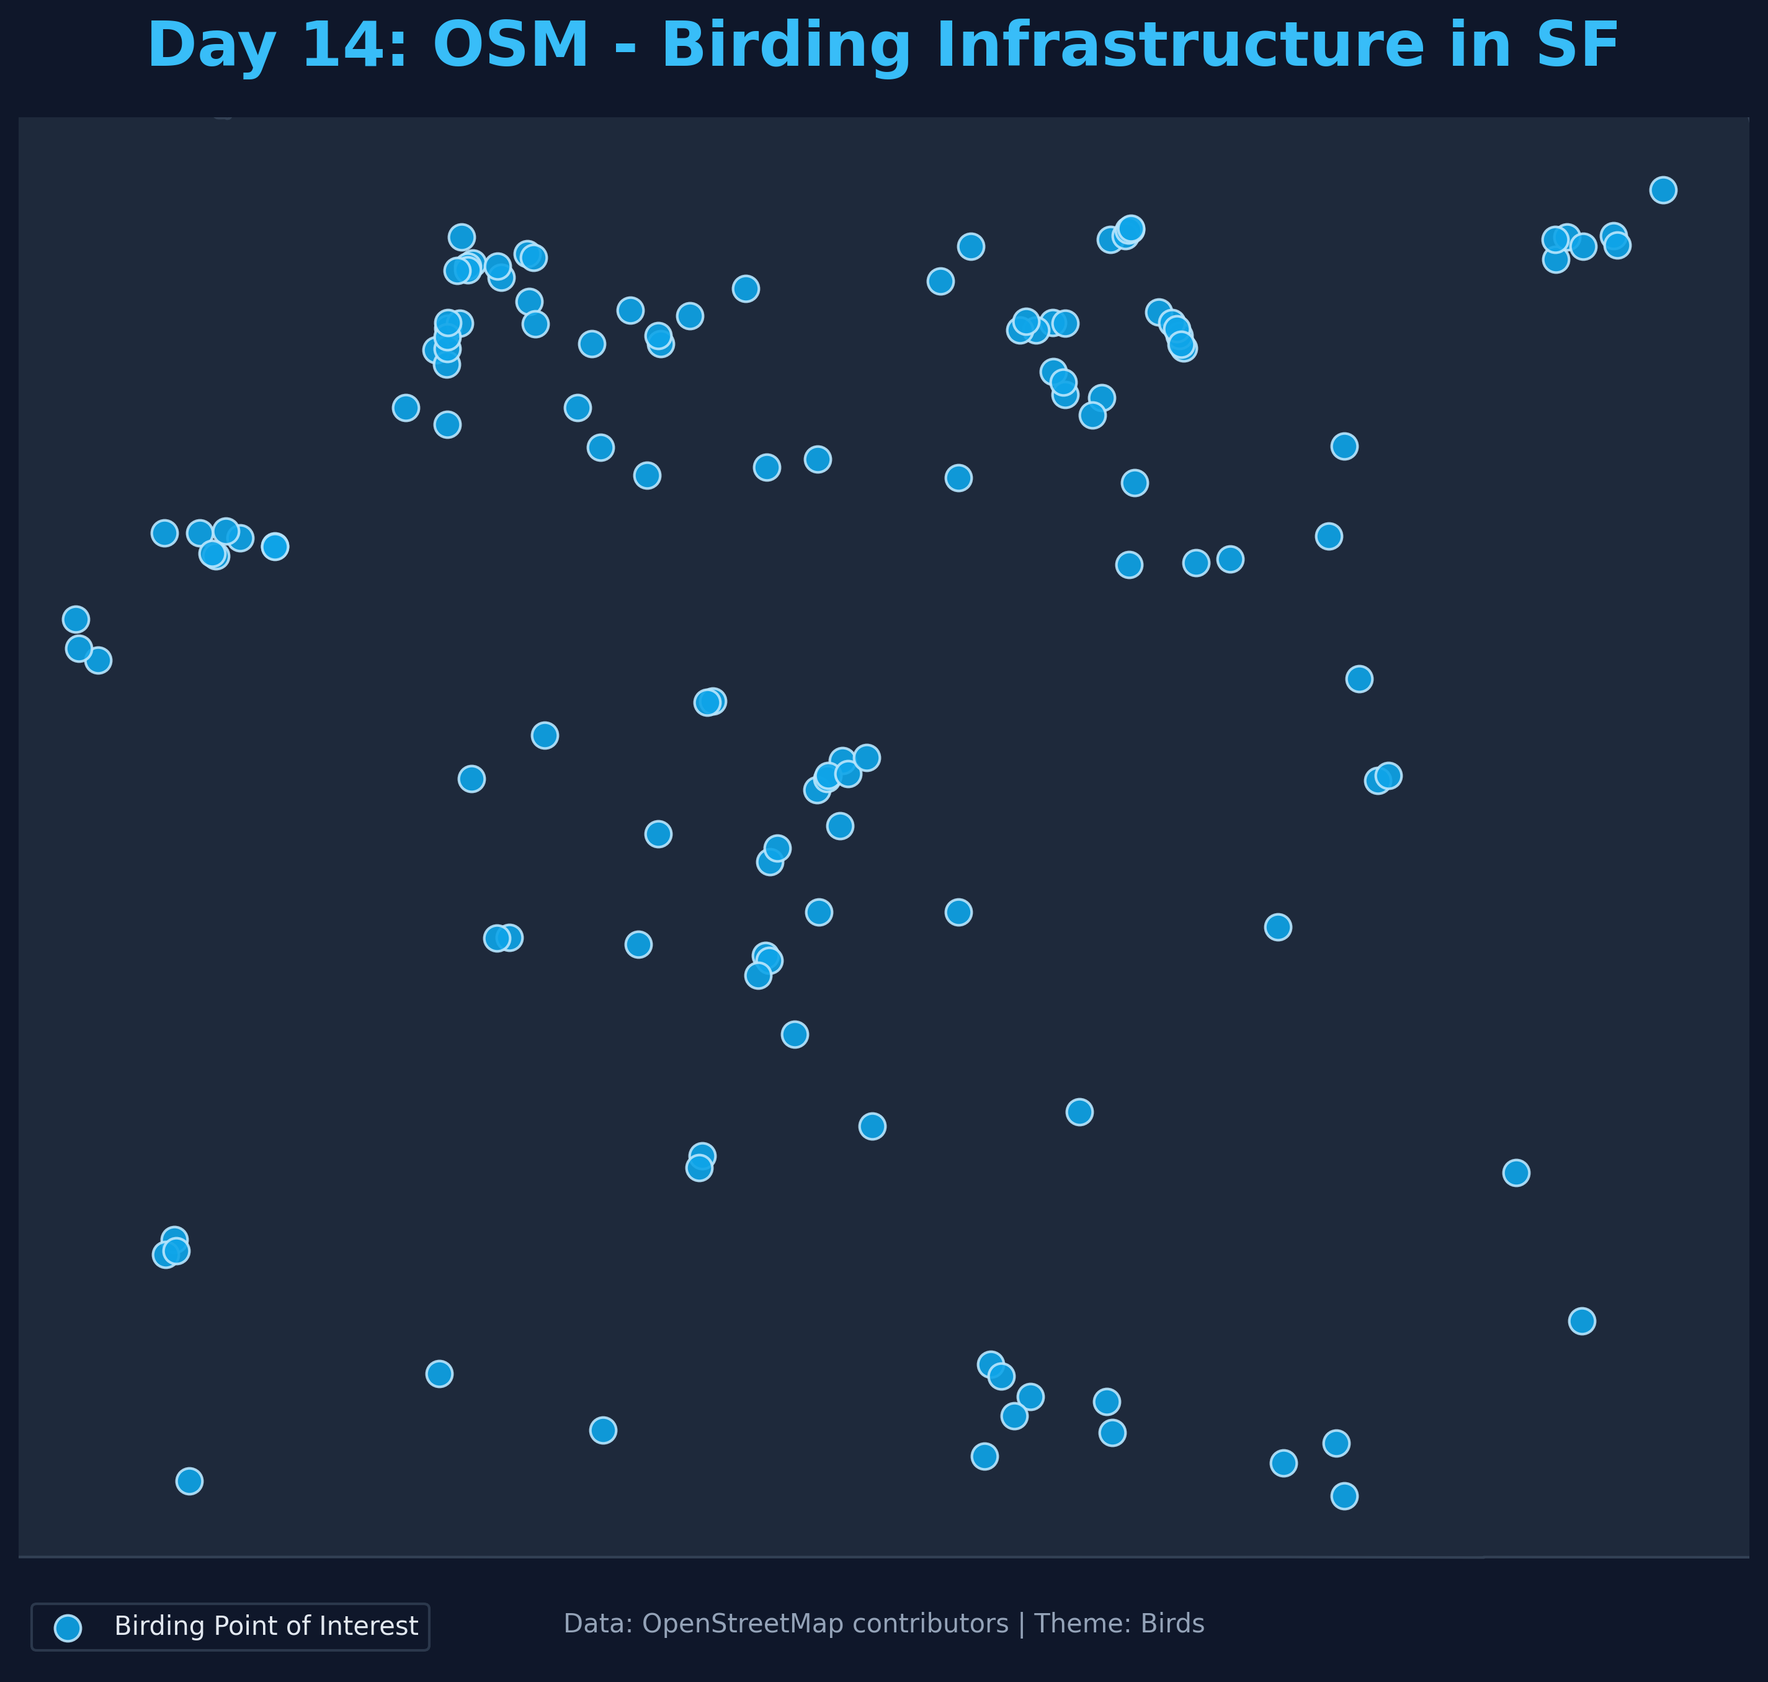
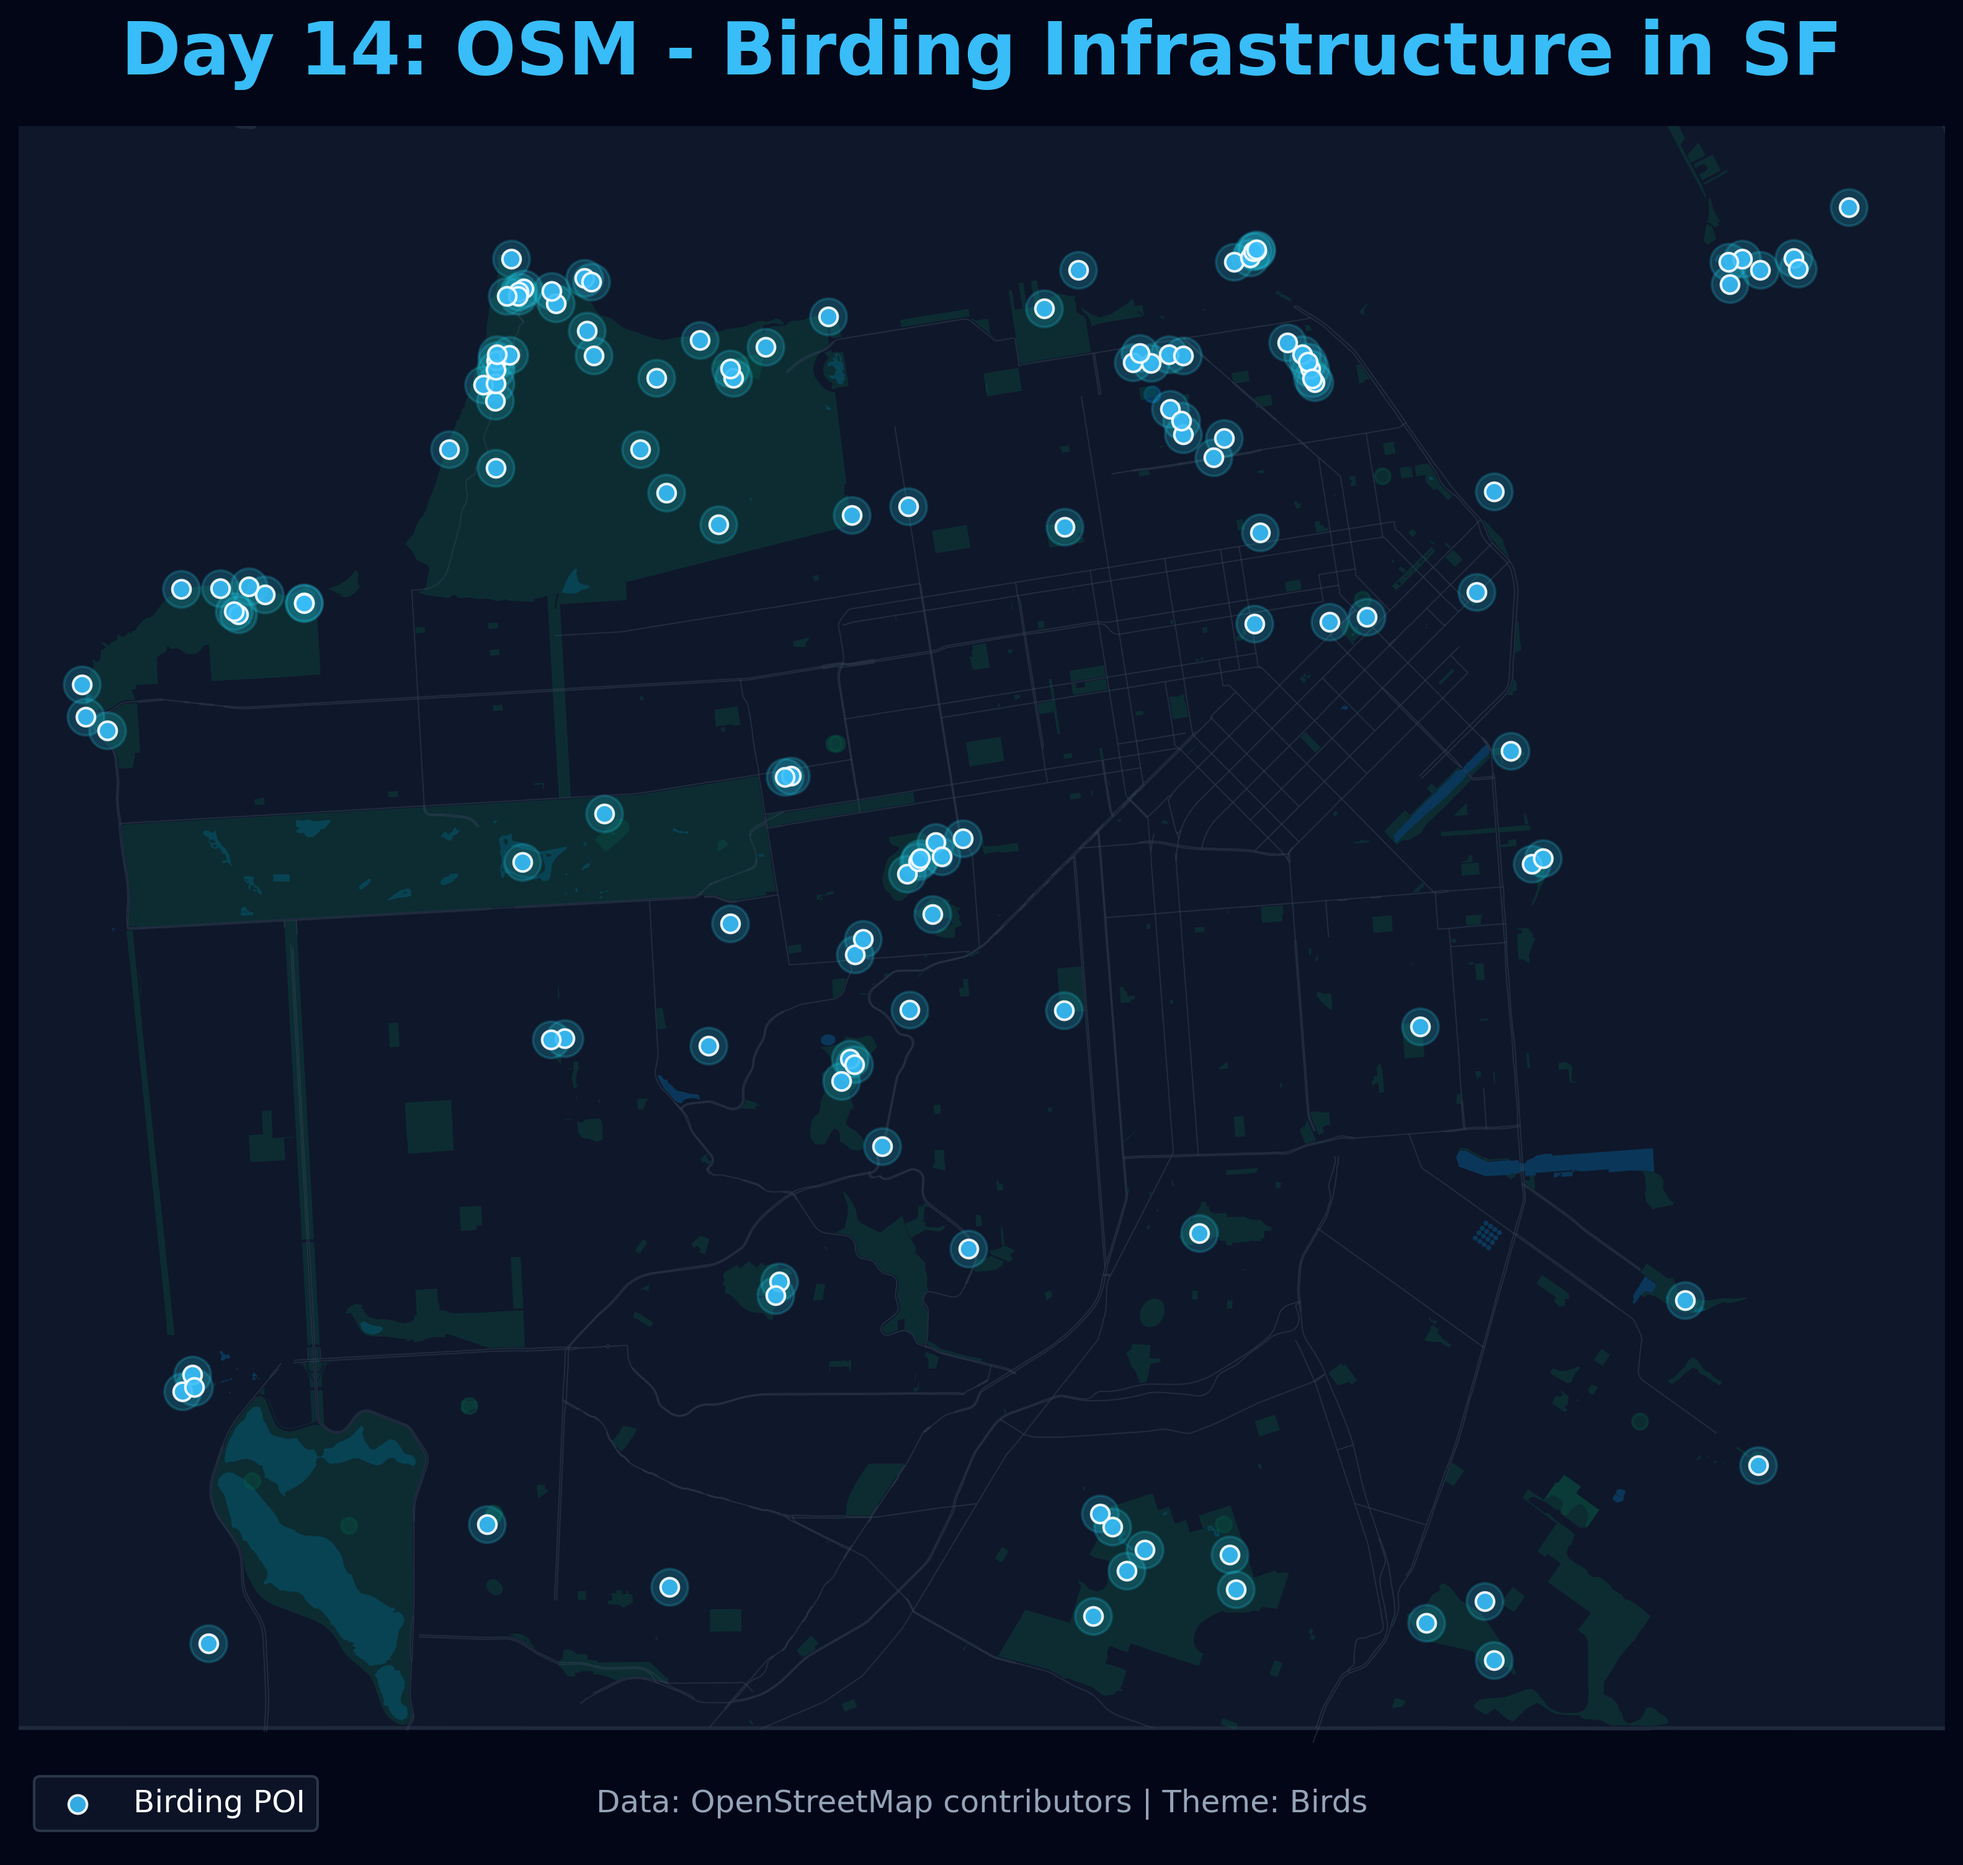
Elevate Day 13 and 14 aesthetics with rich vector basemaps

diff --git a/2025/day_14/code/plot_bird_osm.py b/2025/day_14/code/plot_bird_osm.py
@@ -17,49 +17,56 @@ def main():
     gdf = ox.features_from_place(location, tags=tags)
     print(f"Found {len(gdf)} bird-related features.")
     
-    # Filter for interesting ones or just plot all
+    # Get centroids
     gdf['centroid'] = gdf.geometry.centroid
     
-    print("Plotting birding sites...")
-    fig, ax = plt.subplots(figsize=(12, 12))
-    fig.patch.set_facecolor('#0f172a') # Deep navy
-    ax.set_facecolor('#0f172a')
+    print("Fetching rich base layers...")
+    water = ox.features_from_place(location, tags={'natural': 'water', 'bay': True})
+    parks = ox.features_from_place(location, tags={'leisure': 'park'})
+    roads = ox.features_from_place(location, tags={'highway': ['primary', 'secondary']})
+    city = ox.geocode_to_gdf(location)
+    
+    print("Plotting high-fidelity birding sites...")
+    fig, ax = plt.subplots(figsize=(15, 12))
+    fig.patch.set_facecolor('#020617') # Very dark blue/black
+    ax.set_facecolor('#020617')
     
     # Plot SF boundary
-    city = ox.geocode_to_gdf(location)
-    city.plot(ax=ax, color='#1e293b', edgecolor='#334155', linewidth=1)
+    city.plot(ax=ax, color='#0f172a', edgecolor='#1e293b', linewidth=1.5, zorder=1)
     
-    # Plot bird hides and nests with a vibrant color
-    ax.scatter(gdf['centroid'].x, gdf['centroid'].y, color='#0ea5e9', s=100, alpha=0.9, edgecolor='#bae6fd', linewidth=1, label='Birding Point of Interest')
+    # Plot Water
+    water.plot(ax=ax, color='#0369a1', alpha=0.4, zorder=2)
+    
+    # Plot Parks
+    parks.plot(ax=ax, color='#065f46', alpha=0.3, zorder=3)
+    
+    # Plot Roads
+    roads.plot(ax=ax, color='#334155', linewidth=0.5, alpha=0.5, zorder=4)
+    
+    # Plot bird hides and nests with a vibrant cyan color
+    # Outer glow
+    ax.scatter(gdf['centroid'].x, gdf['centroid'].y, color='#22d3ee', s=200, alpha=0.2, zorder=10)
+    # Inner point
+    ax.scatter(gdf['centroid'].x, gdf['centroid'].y, color='#38bdf8', s=50, alpha=0.9, edgecolor='white', linewidth=1, label='Birding POI', zorder=11)
     
     # Focus tightly on the SF Peninsula, ignoring the Farallon Islands
     ax.set_xlim(-122.52, -122.35)
     ax.set_ylim(37.70, 37.82)
     
     ax.set_axis_off()
-    ax.set_title("Day 14: OSM - Birding Infrastructure in SF", fontsize=24, pad=20, fontweight='bold', color='#38bdf8')
+    ax.set_title("Day 14: OSM - Birding Infrastructure in SF", fontsize=28, pad=20, fontweight='black', color='#38bdf8')
     
     ax.text(0.5, 0.02, "Data: OpenStreetMap contributors | Theme: Birds", 
-            transform=ax.transAxes, ha='center', color='#94a3b8', fontsize=10)
+            transform=ax.transAxes, ha='center', color='#94a3b8', fontsize=12)
     
     # Customize legend for dark background
-    legend = ax.legend(loc='lower left', facecolor='#0f172a', edgecolor='#334155')
+    legend = ax.legend(loc='lower left', facecolor='#0f172a', edgecolor='#334155', fontsize=12)
     for text in legend.get_texts():
-        text.set_color('#e2e8f0')
+        text.set_color('#f8fafc')
     
     output_path = os.path.join('2025', 'day_14', 'visualization', 'sf_birding_osm.png')
-    plt.savefig(output_path, dpi=300, bbox_inches='tight', facecolor='#0f172a')
+    plt.savefig(output_path, dpi=300, bbox_inches='tight', facecolor='#020617')
     print(f"Saved to {output_path}")
-    
-    # Save a small README
-    readme_content = f"""# Day 14: Data challenge: OpenStreetMap
-A map of birding-related infrastructure and points of interest in San Francisco, extracted from OpenStreetMap. This includes features tagged as bird hides, observation towers, viewpoints, and known nest sites.
-
-## Visualization
-![SF Birding OSM](visualization/sf_birding_osm.png)
-"""
-    with open(os.path.join('2025', 'day_14', 'README.md'), 'w') as f:
-        f.write(readme_content)
 
 if __name__ == "__main__":
     main()

diff --git a/2025/day_13/code/plot_quick_birds.py b/2025/day_13/code/plot_quick_birds.py
@@ -22,48 +22,63 @@ def main():
     
     gdf = gpd.GeoDataFrame(pd.DataFrame(data), geometry=gpd.points_from_xy([d['lon'] for d in data], [d['lat'] for d in data]), crs="EPSG:4326")
     
-    print("Plotting...")
-    fig, ax = plt.subplots(figsize=(12, 12))
-    fig.patch.set_facecolor('#1e293b') # Dark slate blue
-    ax.set_facecolor('#1e293b')
+    location = "San Francisco, California, USA"
+    print("Fetching base layers for context...")
+    # Fetch water and parks for a beautiful basemap
+    water = ox.features_from_place(location, tags={'natural': 'water', 'bay': True})
+    parks = ox.features_from_place(location, tags={'leisure': 'park'})
+    city = ox.geocode_to_gdf(location)
     
-    city = ox.geocode_to_gdf("San Francisco, California, USA")
-    city.plot(ax=ax, color='#334155', edgecolor='#475569', linewidth=1)
+    print("Plotting elevated 10-minute map...")
+    fig, ax = plt.subplots(figsize=(15, 12))
+    fig.patch.set_facecolor('#0f172a') # Deep space navy
+    ax.set_facecolor('#0f172a')
     
-    # Plot top 5 species by count in sample
+    # Plot City Base
+    city.plot(ax=ax, color='#1e293b', edgecolor='#334155', linewidth=1, zorder=1)
+    
+    # Plot Water
+    water.plot(ax=ax, color='#0284c7', alpha=0.3, zorder=2)
+    
+    # Plot Parks
+    parks.plot(ax=ax, color='#15803d', alpha=0.3, zorder=3)
+    
+    # Plot top 5 species by count in sample with glowing effect
     top_5 = gdf['species'].value_counts().head(5).index.tolist()
-    gdf[gdf['species'].isin(top_5)].plot(
+    top_gdf = gdf[gdf['species'].isin(top_5)]
+    
+    # Glow effect
+    top_gdf.plot(ax=ax, column='species', cmap='Set2', markersize=150, alpha=0.2, zorder=4)
+    # Core point
+    top_gdf.plot(
         ax=ax, 
         column='species', 
         cmap='Set2', 
-        markersize=60, 
-        alpha=0.8, 
+        markersize=40, 
+        alpha=0.9, 
         edgecolor='white',
-        linewidth=0.5,
+        linewidth=0.8,
         legend=True,
-        legend_kwds={'loc': 'upper left', 'facecolor': '#1e293b', 'edgecolor': 'none', 'labelcolor': 'white'}
+        legend_kwds={'loc': 'lower left', 'facecolor': '#0f172a', 'edgecolor': '#334155', 'labelcolor': 'white', 'title': 'Top 5 Species', 'title_fontsize': 12},
+        zorder=5
     )
     
-    # Focus tightly on the SF Peninsula, ignoring the Farallon Islands
+    # Fix the legend title color
+    legend = ax.get_legend()
+    if legend:
+        legend.get_title().set_color('white')
+        legend.get_title().set_fontweight('bold')
+    
+    # Focus tightly on the SF Peninsula
     ax.set_xlim(-122.52, -122.35)
     ax.set_ylim(37.70, 37.82)
     
     ax.set_axis_off()
-    ax.set_title("Day 13: 10 Minute Map - Common SF Birds", color='white', fontsize=24, fontweight='bold', pad=20)
+    ax.set_title("Day 13: 10 Minute Map - Common SF Birds", color='white', fontsize=28, fontweight='black', pad=20)
     
     output_path = os.path.join('2025', 'day_13', 'visualization', 'sf_common_birds.png')
-    plt.savefig(output_path, dpi=300, bbox_inches='tight', facecolor='#1e293b')
+    plt.savefig(output_path, dpi=300, bbox_inches='tight', facecolor='#0f172a')
     print(f"Saved to {output_path}")
-    
-    # Save a small README
-    readme_content = f"""# Day 13: 10 minute map
-A rapidly generated map showing a sample of the most common bird species found in San Francisco, based on recent GBIF observations. This map was created in under 10 minutes to demonstrate quick spatial data processing.
-
-## Visualization
-![SF Common Birds](visualization/sf_common_birds.png)
-"""
-    with open(os.path.join('2025', 'day_13', 'README.md'), 'w') as f:
-        f.write(readme_content)
 
 if __name__ == "__main__":
     main()
